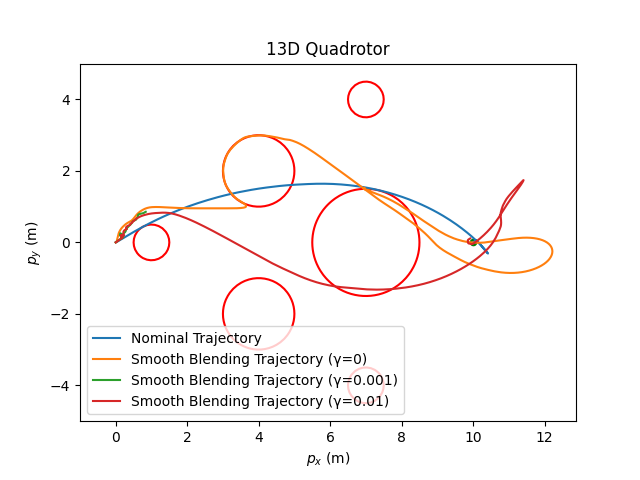
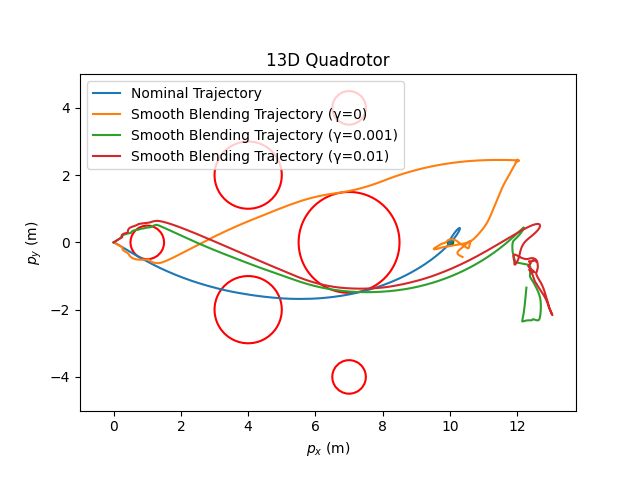
hw3

diff --git a/hw3/problem3.py b/hw3/problem3.py
@@ -67,7 +67,7 @@ def smooth_blending_safety_filter(x, u_nom, gamma, lmbda):
     u = cp.Variable(4)
     s = cp.Variable(1)
 
-    obj = cp.Minimize(cp.norm(u - u_nom_np) + lmbda * (s**2))
+    obj = cp.Minimize(cp.norm(u - u_nom_np)**2 + lmbda * (s**2))
 
     u_upper, u_lower = control_limits()
 
